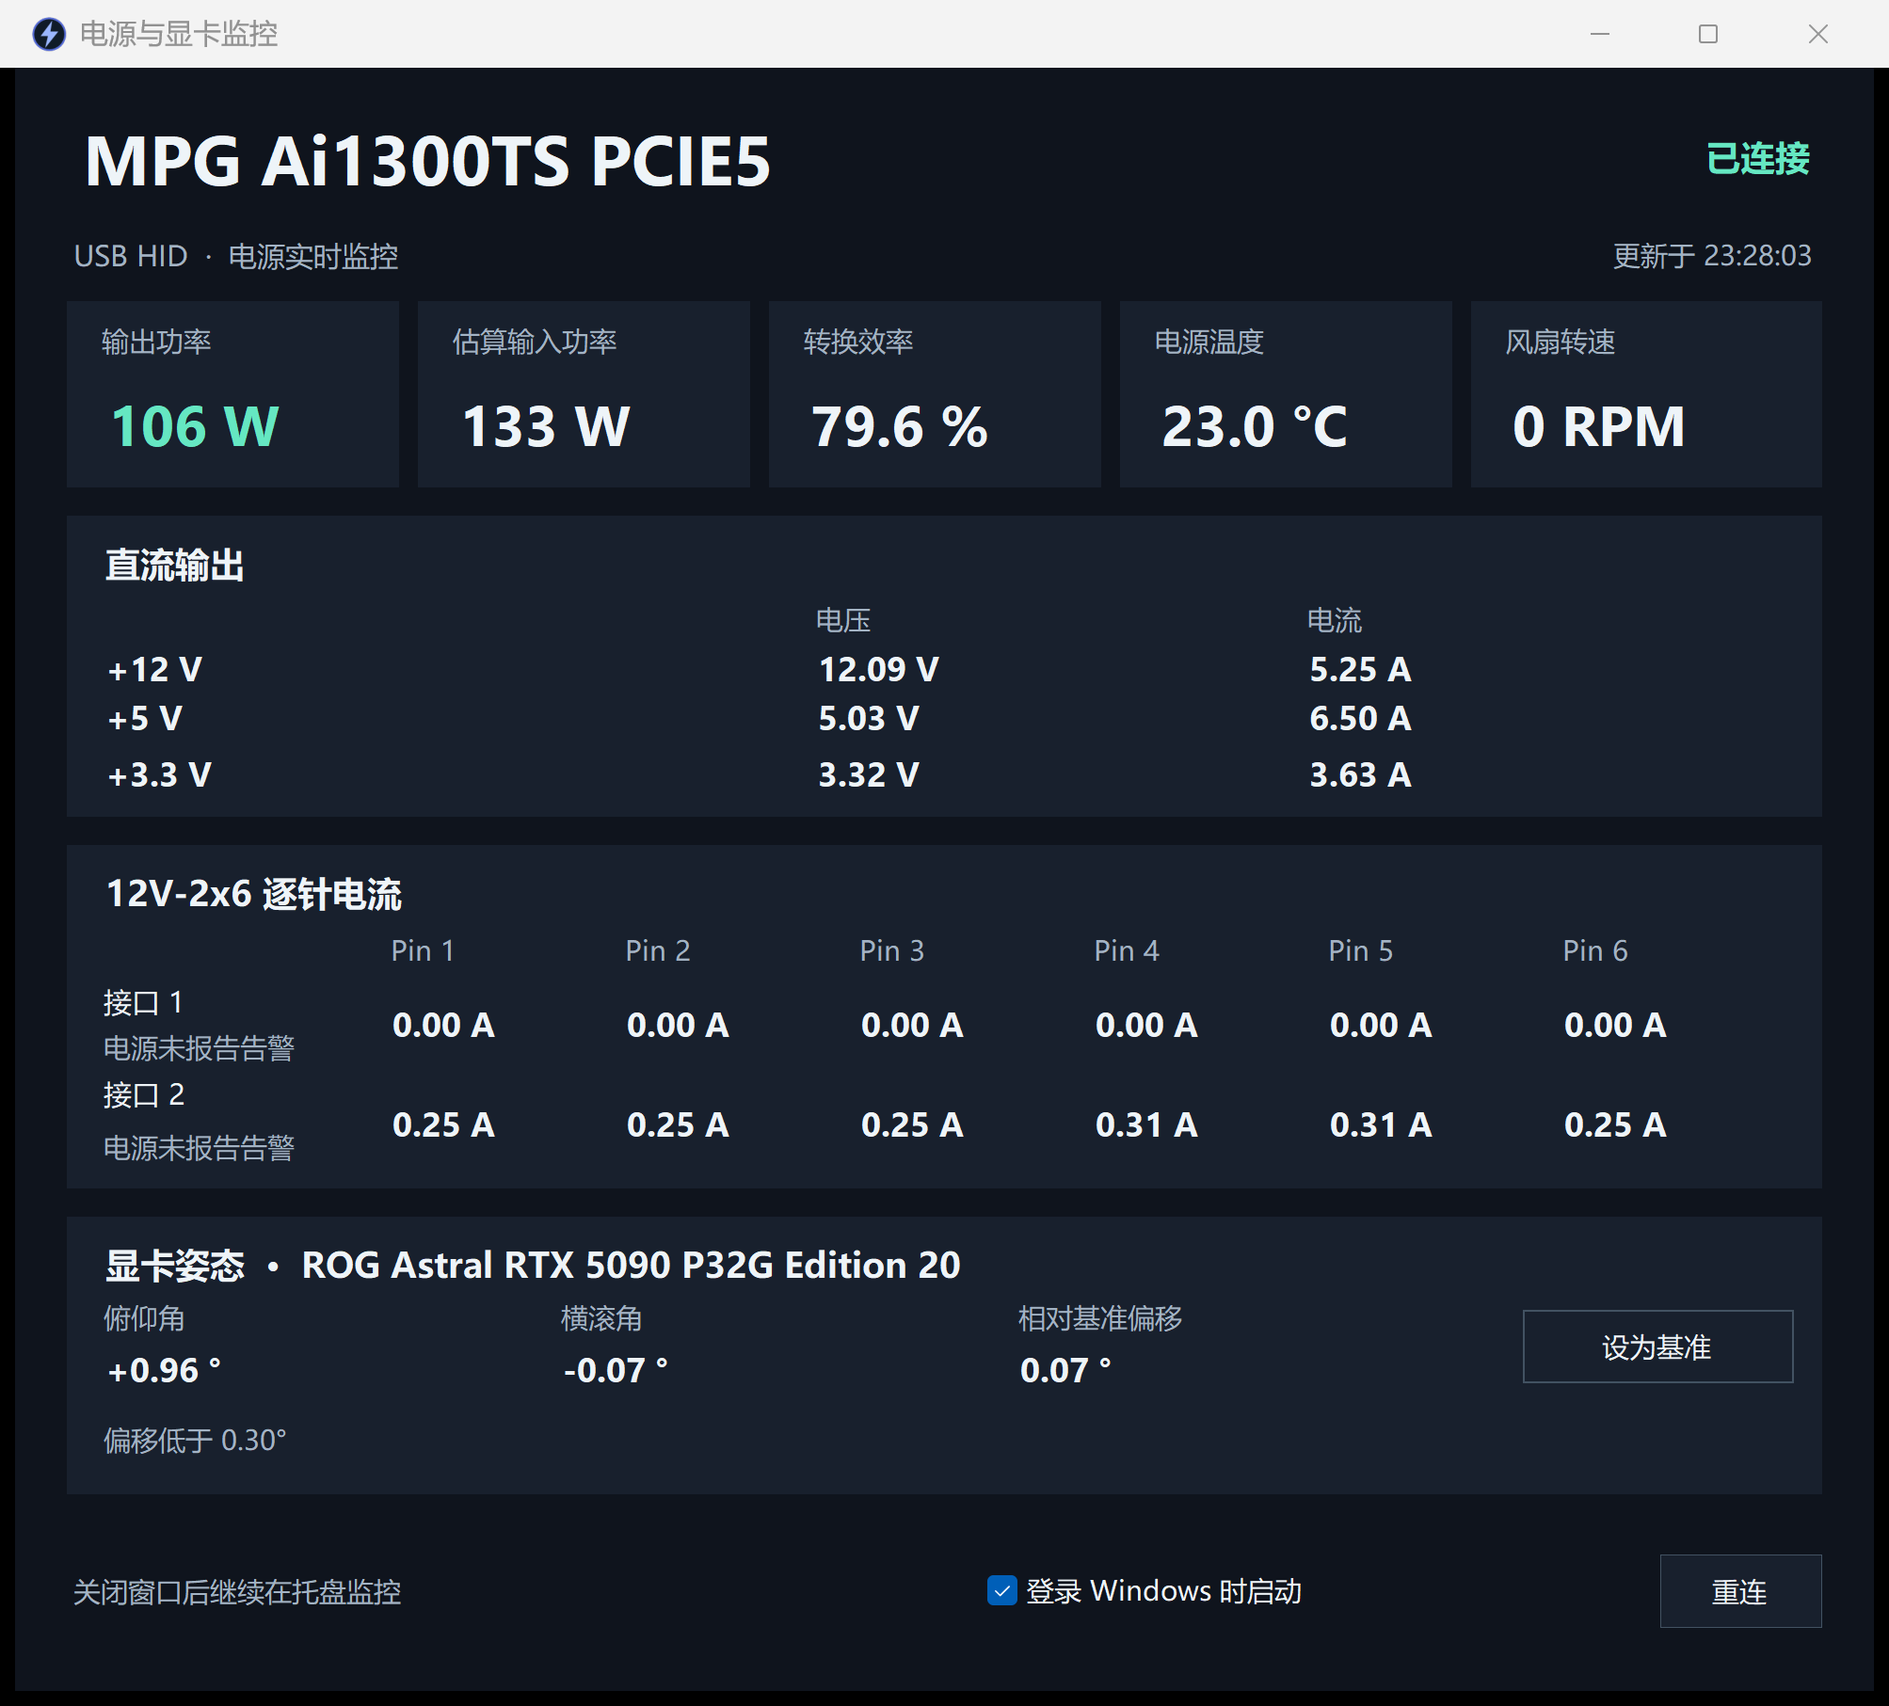
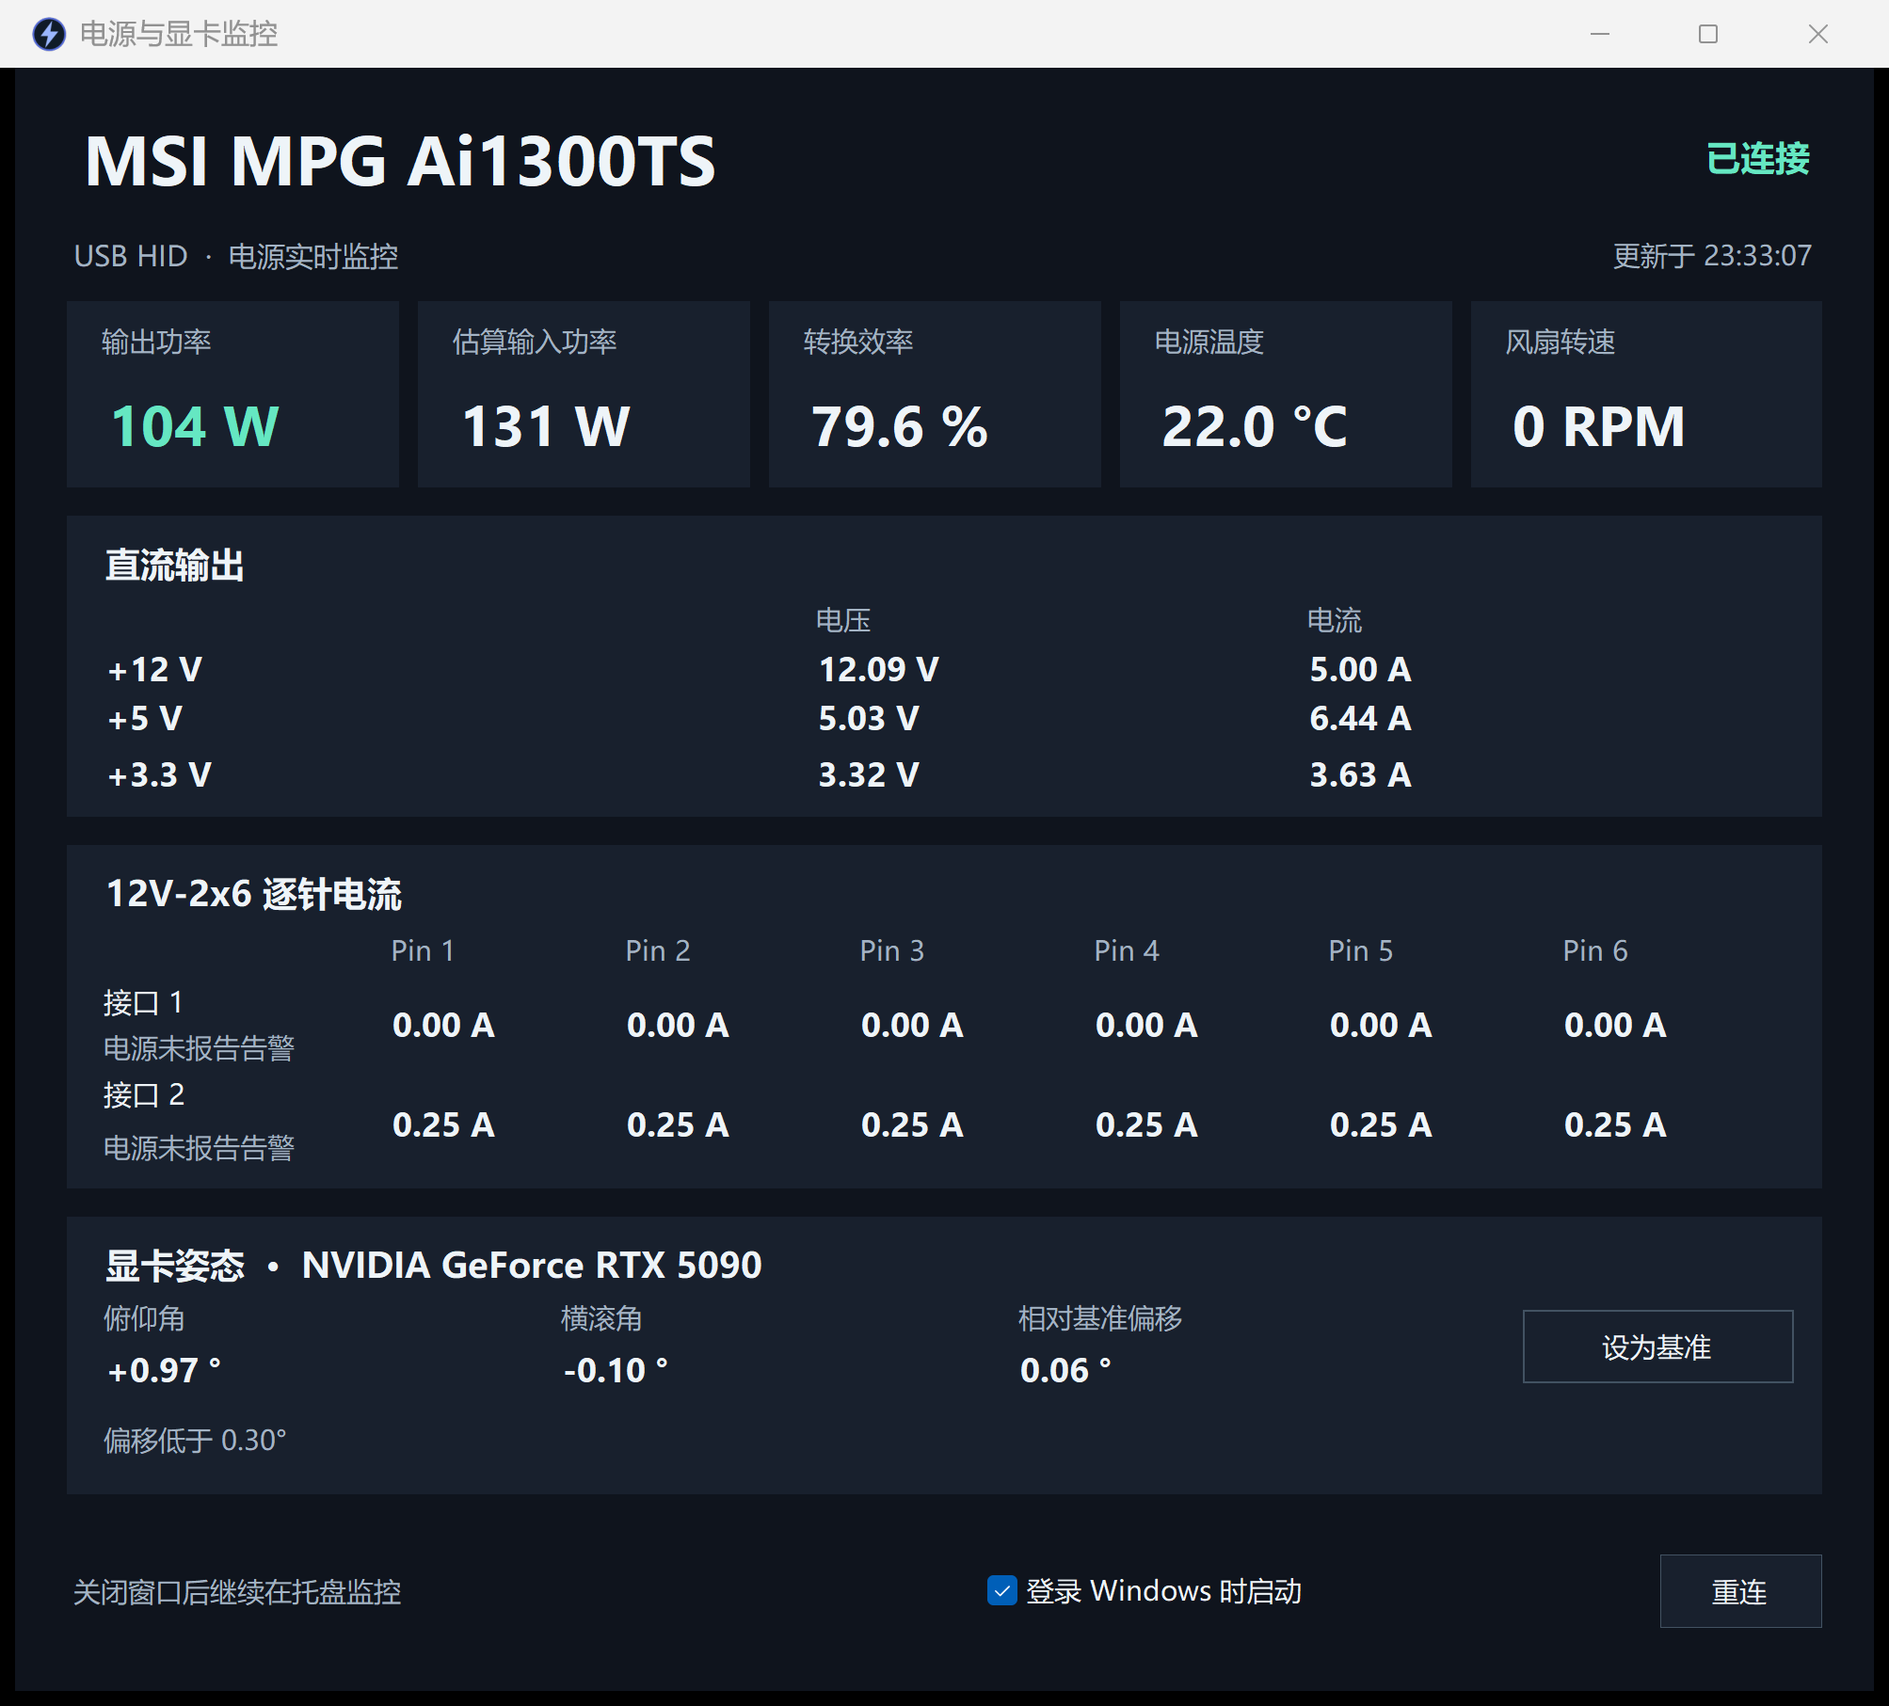
Read PSU and GPU model names at runtime
PSU model comes from HidD_GetManufacturerString/HidD_GetProductString, GPU model from NvAPI_GPU_GetFullName. Remove hardcoded model literals from the header, GPU section and tray card. Add Contributors section.

diff --git a/src/PsuMonitor.cs b/src/PsuMonitor.cs
@@ -15,11 +15,11 @@ using Timer = System.Windows.Forms.Timer;
 [assembly: AssemblyTitle(MonitorProduct.AssemblyTitle)]
 [assembly: AssemblyDescription(MonitorProduct.Description)]
 #if GPU_LEVEL
-[assembly: AssemblyVersion("1.1.3.0")]
-[assembly: AssemblyFileVersion("1.1.3.0")]
+[assembly: AssemblyVersion("1.1.4.0")]
+[assembly: AssemblyFileVersion("1.1.4.0")]
 #else
-[assembly: AssemblyVersion("1.1.3.0")]
-[assembly: AssemblyFileVersion("1.1.3.0")]
+[assembly: AssemblyVersion("1.1.4.0")]
+[assembly: AssemblyFileVersion("1.1.4.0")]
 #endif
 
 internal static class MonitorProduct
@@ -134,6 +134,7 @@ internal sealed partial class MonitorWindow : Form
     private readonly Font readingFont = new Font("Segoe UI", 11F, FontStyle.Bold);
     private readonly float scale = GetDpiForSystem() / 96F;
     private readonly Timer timer = new Timer();
+    private readonly Label productTitle;
     private readonly Label connection;
     private readonly Label timestamp;
     private readonly Label detail;
@@ -156,6 +157,7 @@ internal sealed partial class MonitorWindow : Form
     private string psuTraySummary = "正在连接电源…";
 #endif
     private PsuHidTransport transport;
+    private string psuModelName;
     private bool polling;
     private bool closing;
     private bool exitRequested;
@@ -202,7 +204,8 @@ internal sealed partial class MonitorWindow : Form
         header.ColumnStyles.Add(new ColumnStyle(SizeType.Percent, 35));
         header.RowStyles.Add(new RowStyle(SizeType.Absolute, Pixels(45)));
         header.RowStyles.Add(new RowStyle(SizeType.Absolute, Pixels(25)));
-        header.Controls.Add(LabelFor("MPG Ai1300TS PCIE5", titleFont, Foreground), 0, 0);
+        productTitle = LabelFor("电源", titleFont, Foreground);
+        header.Controls.Add(productTitle, 0, 0);
         header.Controls.Add(LabelFor("USB HID  ·  电源实时监控", uiFont, Secondary), 0, 1);
         connection = LabelFor("正在连接", sectionFont, Warning, ContentAlignment.MiddleRight);
         timestamp = LabelFor("等待首个样本", smallFont, Secondary, ContentAlignment.MiddleRight);
@@ -335,6 +338,7 @@ internal sealed partial class MonitorWindow : Form
         };
         timer.Tick += async (sender, args) => await PollAsync();
         RefreshStartup();
+        productTitle.Text = PsuModelName;
     }
 
     public void StartPolling()
@@ -392,6 +396,16 @@ internal sealed partial class MonitorWindow : Form
         trayStartup.Text = startup.Text;
     }
 
+    private string PsuModelName
+    {
+        get
+        {
+            if (psuModelName == null)
+                psuModelName = PsuHidTransport.ReadModelName();
+            return psuModelName ?? "电源";
+        }
+    }
+
     private void ToggleStartup()
     {
         trayHover.Dismiss();
@@ -446,12 +460,13 @@ internal sealed partial class MonitorWindow : Form
         return section;
     }
 
-    private void AddSectionTitle(TableLayoutPanel section, string title, int span)
+    private Label AddSectionTitle(TableLayoutPanel section, string title, int span)
     {
         var label = LabelFor(title, sectionFont, Foreground);
         section.RowStyles.Add(new RowStyle(SizeType.Absolute, Pixels(28)));
         section.Controls.Add(label, 0, 0);
         section.SetColumnSpan(label, span);
+        return label;
     }
 
     private static Label LabelFor(string text, Font font, Color color,
@@ -628,6 +643,7 @@ internal sealed partial class MonitorWindow : Form
         timestamp.Text = "更新于 " + sampleTime.ToString("HH:mm:ss", CultureInfo.InvariantCulture);
         detail.Text = "关闭窗口后继续在托盘监控";
         elevate.Visible = false;
+        productTitle.Text = PsuModelName;
 #if GPU_LEVEL
         supplyLatest = sample;
         supplyUpdatedAt = sampleTime;
@@ -646,6 +662,7 @@ internal sealed partial class MonitorWindow : Form
             SupplyUpdatedAt = supplyUpdatedAt,
             SupplyState = connection.Text,
             SupplyDetail = supplyLatest == null ? detail.Text : null,
+            SupplyModel = PsuModelName,
             Gpu = gpuLatest,
             GpuDeviation = gpuTrayDeviation,
             GpuAboveThreshold = gpuTrayAboveThreshold,

diff --git a/src/PsuHidTransport.cs b/src/PsuHidTransport.cs
@@ -4,6 +4,7 @@ using System.ComponentModel;
 using System.Diagnostics;
 using System.IO;
 using System.Runtime.InteropServices;
+using System.Text;
 using Microsoft.Win32.SafeHandles;
 
 public sealed class PsuHidTransport : IDisposable
@@ -83,6 +84,52 @@ public sealed class PsuHidTransport : IDisposable
                     throw Win32Failure("释放电源访问锁失败", error);
                 }
             }
+        }
+    }
+
+    public static string ReadProductName()
+    {
+        return ReadDeviceString(true);
+    }
+
+    public static string ReadManufacturerName()
+    {
+        return ReadDeviceString(false);
+    }
+
+    public static string ReadModelName()
+    {
+        string product = ReadProductName();
+        if (product == null)
+            return null;
+        string manufacturer = ReadManufacturerName();
+        return String.IsNullOrEmpty(manufacturer) ? product : manufacturer + " " + product;
+    }
+
+    private static string ReadDeviceString(bool product)
+    {
+        try
+        {
+            using (SafeFileHandle handle = OpenDevice(FindDevice(), 0, 0))
+            {
+                var buffer = new StringBuilder(256);
+                bool read = product
+                    ? Native.HidD_GetProductString(handle, buffer, (uint)(buffer.Capacity * 2))
+                    : Native.HidD_GetManufacturerString(handle, buffer, (uint)(buffer.Capacity * 2));
+                if (!read)
+                    return null;
+
+                string value = buffer.ToString().Trim();
+                return value.Length == 0 ? null : value;
+            }
+        }
+        catch (Exception error)
+        {
+            if (!(error is IOException || error is Win32Exception ||
+                  error is UnauthorizedAccessException || error is InvalidOperationException ||
+                  error is ArgumentException))
+                throw;
+            return null;
         }
     }
 
@@ -497,6 +544,14 @@ public sealed class PsuHidTransport : IDisposable
         [DllImport("hid.dll", ExactSpelling = true, SetLastError = true)]
         [return: MarshalAs(UnmanagedType.U1)]
         internal static extern bool HidD_FlushQueue(SafeFileHandle device);
+
+        [DllImport("hid.dll", CharSet = CharSet.Unicode, ExactSpelling = true, SetLastError = true)]
+        [return: MarshalAs(UnmanagedType.U1)]
+        internal static extern bool HidD_GetProductString(SafeFileHandle device, StringBuilder buffer, uint bufferLength);
+
+        [DllImport("hid.dll", CharSet = CharSet.Unicode, ExactSpelling = true, SetLastError = true)]
+        [return: MarshalAs(UnmanagedType.U1)]
+        internal static extern bool HidD_GetManufacturerString(SafeFileHandle device, StringBuilder buffer, uint bufferLength);
 
         [DllImport("setupapi.dll", CharSet = CharSet.Unicode, ExactSpelling = true, SetLastError = true)]
         internal static extern IntPtr SetupDiGetClassDevsW(ref Guid hid, string enumerator, IntPtr hwnd, uint flags);

diff --git a/src/MonitorTrayPopup.cs b/src/MonitorTrayPopup.cs
@@ -11,6 +11,7 @@ internal sealed class MonitorTraySnapshot
     public DateTime? SupplyUpdatedAt;
     public string SupplyState;
     public string SupplyDetail;
+    public string SupplyModel;
     public GpuLevelReading Gpu;
     public double? GpuDeviation;
     public bool GpuAboveThreshold;
@@ -165,7 +166,7 @@ internal sealed class MonitorTrayPopup : Form
         using (var brush = new SolidBrush(Mint))
             g.FillPolygon(brush, Bolt);
         DrawText(g, "电源与显卡监控", titleFont, Foreground, new RectangleF(55, 12, 254, 25), left);
-        DrawText(g, "Ai1300TS PCIE5  ·  Astral RTX 5090 P32G Edition 20", labelFont, Muted, new RectangleF(55, 35, 258, 14), left);
+        DrawText(g, ModelSubtitle(snapshot), labelFont, Muted, new RectangleF(55, 35, 258, 14), left);
 
         bool fullyConnected = snapshot.Supply != null && snapshot.Gpu != null;
         bool partlyConnected = snapshot.Supply != null || snapshot.Gpu != null;
@@ -174,6 +175,15 @@ internal sealed class MonitorTrayPopup : Form
         FillCard(g, new RectangleF(330, 20, 87, 23), 11.5F, fullyConnected ? BadgeLive : BadgeWaiting);
         Dot(g, statusColor, 341, 28.5F, 6);
         DrawText(g, status, labelFont, statusColor, new RectangleF(352, 21, 56, 21), left);
+    }
+
+    private static string ModelSubtitle(MonitorTraySnapshot snapshot)
+    {
+        string supply = snapshot.SupplyModel;
+        string gpu = snapshot.Gpu == null ? null : snapshot.Gpu.Model;
+        if (String.IsNullOrEmpty(supply))
+            return String.IsNullOrEmpty(gpu) ? "正在连接电源与显卡…" : gpu;
+        return String.IsNullOrEmpty(gpu) ? supply : supply + "  ·  " + gpu;
     }
 
     private void DrawPower(Graphics g, PsuTelemetry s)

diff --git a/src/MonitorGpuLevelPanel.cs b/src/MonitorGpuLevelPanel.cs
@@ -26,6 +26,7 @@ internal sealed partial class MonitorWindow
     private Label gpuRoll;
     private Label gpuDeviation;
     private Label gpuState;
+    private Label gpuTitle;
     private Button gpuCalibrate;
 
     private Control CreateGpuPanel()
@@ -36,7 +37,7 @@ internal sealed partial class MonitorWindow
         panel.ColumnStyles.Add(new ColumnStyle(SizeType.Percent, 27));
         panel.ColumnStyles.Add(new ColumnStyle(SizeType.Percent, 28));
         panel.ColumnStyles.Add(new ColumnStyle(SizeType.Percent, 18));
-        AddSectionTitle(panel, "显卡姿态  ·  " + GpuLevelSense.ProductModel, 4);
+        gpuTitle = AddSectionTitle(panel, "显卡姿态", 4);
         panel.RowStyles.Add(new RowStyle(SizeType.Absolute, Pixels(18)));
         panel.RowStyles.Add(new RowStyle(SizeType.Absolute, Pixels(25)));
         panel.RowStyles.Add(new RowStyle(SizeType.Percent, 100));
@@ -138,6 +139,8 @@ internal sealed partial class MonitorWindow
 
     private void ShowGpuLevel()
     {
+        if (!String.IsNullOrEmpty(gpuLatest.Model))
+            gpuTitle.Text = "显卡姿态  ·  " + gpuLatest.Model;
         gpuPitch.Text = Reading(gpuLatest.PitchDegrees, "+0.00;-0.00;0.00", "°");
         gpuRoll.Text = Reading(gpuLatest.RollDegrees, "+0.00;-0.00;0.00", "°");
         gpuCalibrate.Enabled = true;

diff --git a/README.md b/README.md
@@ -30,8 +30,8 @@ ASUS ROG Astral GeForce RTX 5090 Edition 20（32GB，型号
 
 | 产物 | 版本 | 说明 |
 | --- | --- | --- |
-| `Ai1300TS-PsuMonitor.exe` | 1.1.3.0 | 仅电源监控，托盘提示为文本卡片 |
-| `Ai1300TS-GpuMonitor.exe` | 1.1.3.0 | 电源 + 显卡姿态，托盘悬停为自绘悬浮卡 |
+| `Ai1300TS-PsuMonitor.exe` | 1.1.4.0 | 仅电源监控，托盘提示为文本卡片 |
+| `Ai1300TS-GpuMonitor.exe` | 1.1.4.0 | 电源 + 显卡姿态，托盘悬停为自绘悬浮卡 |
 
 两个 exe 放到同一目录即可运行，互不依赖；构建产物不入库。
 
@@ -97,6 +97,14 @@ work/                   本地逆向资料与旧构建（不入库）
 - GPU 版托盘悬停 350 ms 后显示悬浮卡（逻辑尺寸 432×424，按系统 DPI 缩放），
   PSU 版显示文本弹窗。
 
+### 型号显示
+
+- 电源型号在运行时读取 HID 设备字符串（`HidD_GetManufacturerString` + `HidD_GetProductString`，
+  本机为 `MSI` + `MPG Ai1300TS`），窗口标题与托盘副标题随之更新，不在代码里写死。
+- 显卡型号来自 `NvAPI_GPU_GetFullName`（本机为 `NVIDIA GeForce RTX 5090`），
+  首次读取成功后更新“显卡姿态”标题与悬浮卡副标题。
+- 任一路读取失败时退回通用文案（“电源”/“显卡”），不影响监控本身。
+
 ## 构建
 
 需要 .NET Framework 4.8 的 `csc.exe`（`C:\Windows\Microsoft.NET\Framework64\v4.0.30319`），
@@ -154,8 +162,8 @@ GpuLevelProbe.exe
 说明取自 `docs/releases/<tag>.md`）：
 
 ```powershell
-git tag -a v1.1.2 -m "Ai1300TS Monitor v1.1.2"
-git push origin v1.1.2
+git tag -a v1.1.4 -m "Ai1300TS Monitor v1.1.4"
+git push origin v1.1.4
 ```
 
 首次配置远程仓库与认证的步骤见 [docs/publish.md](docs/publish.md)。
@@ -170,6 +178,11 @@ git push origin v1.1.2
 4. 电源协议与显卡传感器均依赖特定型号（MPG Ai1300TS、ROG Astral RTX 5090 P32G Edition 20），
    换硬件需重新适配。
 5. exe 未签名，首次运行或被移动后可能触发 SmartScreen。
+
+## Contributors
+
+- **zheng.jiatao** — 需求、硬件验证与发布
+- **DeepSeek Harness** — 逆向分析、代码实现、测试与文档（AI 编程助手）
 
 ## 许可证
 

diff --git a/docs/releases/v1.1.4.md b/docs/releases/v1.1.4.md
@@ -1,0 +1,42 @@
+# Ai1300TS Monitor v1.1.4
+
+型号不再写死在界面里，改为运行时读取。
+
+## 变更
+
+- **电源型号**：读取 HID 设备字符串（Manufacturer + Product），本机显示 `MSI MPG Ai1300TS`；
+  窗口大标题与悬浮卡副标题随设备更新，不再固定为某个型号字符串。
+- **显卡型号**：读取 `NvAPI_GPU_GetFullName`，本机显示 `NVIDIA GeForce RTX 5090`；
+  首次读取成功后更新“显卡姿态”标题与悬浮卡副标题。
+- 读取失败时回退为通用文案（“电源”/“显卡”），不影响监控数据。
+- 版本号统一为 **1.1.4.0**。
+- README 增加 Contributors：zheng.jiatao、DeepSeek Harness。
+
+## 附件
+
+| 文件 | 说明 |
+| --- | --- |
+| `Ai1300TS-Monitor-v1.1.4.zip` | 两个 exe 的压缩包 |
+| `Ai1300TS-PsuMonitor.exe` | 仅电源监控（1.1.4.0） |
+| `Ai1300TS-GpuMonitor.exe` | 电源 + 显卡姿态，含托盘悬浮卡（1.1.4.0） |
+
+## 功能
+
+- 电源实时数据：输出功率、估算输入功率、转换效率、温度、风扇转速，
+  +12 V / +5 V / +3.3 V 电压电流，2 路 12V-2x6 各 6 针电流与告警状态。
+- 显卡姿态：俯仰/横滚角，可设基准并监测相对偏移（≥ 0.30° 变色提示）。
+- 托盘常驻：悬停显示自绘悬浮卡；关闭窗口隐藏到托盘；单实例，重复启动唤起窗口。
+- 登录 Windows 时启动；访问被拒绝时可一键提权重连。
+
+## 兼容性
+
+- Windows 10/11 x64，.NET Framework 4.8（系统自带）。
+- 已适配 MSI MPG Ai1300TS 系列电源与 ASUS ROG Astral RTX 5090 P32G Edition 20；
+  其他型号的传感器地址/子系统 ID 不同，需要重新适配。
+- exe 未签名，首次运行可能触发 SmartScreen 提示。
+
+## 说明
+
+- 电源协议来自对 MSI“UC_Power Supply Unit”插件的 IL 逆向，仅实现读取，不修改电源状态。
+- 源码、构建脚本与测试：<https://github.com/ZBuer507/ai1300ts-monitor>
+- 许可证：MIT。
